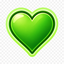
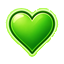
nerf BloodSword

diff --git a/BloodMazeCode/Powers/TemporaryDexterityPower.cs b/BloodMazeCode/Powers/TemporaryDexterityPower.cs
@@ -1,0 +1,44 @@
+using System.Collections.Generic;
+using System.Threading.Tasks;
+using MegaCrit.Sts2.Core.Combat;
+using MegaCrit.Sts2.Core.Commands;
+using MegaCrit.Sts2.Core.Entities.Creatures;
+using MegaCrit.Sts2.Core.Entities.Powers;
+using MegaCrit.Sts2.Core.GameActions.Multiplayer;
+using MegaCrit.Sts2.Core.Models;
+using MegaCrit.Sts2.Core.Models.Powers;
+
+namespace BloodMaze.BloodMazeCode.Powers;
+
+public class TemporaryDexterityPower : BloodMazePower
+{
+    public override PowerType Type => PowerType.Buff;
+    public override PowerStackType StackType => PowerStackType.Counter;
+
+    public override async Task AfterPowerAmountChanged(
+        PlayerChoiceContext choiceContext,
+        PowerModel power,
+        decimal amount,
+        Creature? applier,
+        CardModel? cardSource)
+    {
+        if (power != this) return;
+        if (amount <= 0) return;
+
+        await PowerCmd.Apply<DexterityPower>(choiceContext, this.Owner, amount, applier, cardSource);
+    }
+
+    public override async Task AfterSideTurnEnd(
+        PlayerChoiceContext choiceContext,
+        CombatSide side,
+        IEnumerable<Creature> creatures)
+    {
+        if (side != this.Owner.Side) return;
+        if (this.Owner.IsDead) return;
+        if (CombatManager.Instance.IsOverOrEnding) return;
+
+        decimal amount = this.Amount;
+        await PowerCmd.Remove<TemporaryDexterityPower>(this.Owner);
+        await PowerCmd.Apply<DexterityPower>(choiceContext, this.Owner, -amount, this.Owner, null);
+    }
+}

diff --git a/BloodMazeCode/Cards/Rare/ManaFort.cs b/BloodMazeCode/Cards/Rare/ManaFort.cs
@@ -1,41 +1,38 @@
-using System;
 using System.Collections.Generic;
 using System.Threading.Tasks;
-using BloodMaze.BloodMazeCode.Mp;
-using MegaCrit.Sts2.Core.Commands;
+using BaseLib.Utils;
+using BloodMaze.BloodMazeCode.Powers;
 using MegaCrit.Sts2.Core.Entities.Cards;
-using MegaCrit.Sts2.Core.Entities.Creatures;
 using MegaCrit.Sts2.Core.GameActions.Multiplayer;
 using MegaCrit.Sts2.Core.Localization.DynamicVars;
-using MegaCrit.Sts2.Core.Models;
 using MegaCrit.Sts2.Core.ValueProps;
 
 namespace BloodMaze.BloodMazeCode.Cards.Rare;
 
 
 
-public class ManaFort() : BloodMazeCard(3, CardType.Skill, CardRarity.Rare, TargetType.Self)
+public class ManaFort() : BloodMazeCard(0, CardType.Skill, CardRarity.Rare, TargetType.Self)
 {
     protected override IEnumerable<DynamicVar> CanonicalVars =>
     [
-        new HpLossVar(3m),
-        new CalculationBaseVar(0m),
-        new CalculationExtraVar(0m),
-        new CalculatedBlockVar(ValueProp.Move).WithMultiplier(
-            ((Func<CardModel, Creature, Decimal>)((card, _) =>
-                (Decimal)MpSaveData.CurrentMp)!)!)
+        new PowerVar<TemporaryDexterityPower>(0m),
+        new BlockVar(3m, ValueProp.Move)
     ];
+
+    protected override bool HasEnergyCostX => true;
 
     protected override async Task OnPlay(PlayerChoiceContext choiceContext, CardPlay play)
     {
-        await CreatureCmd.Damage(choiceContext, this.Owner.Creature, DynamicVars.HpLoss.IntValue,
-            ValueProp.Unblockable | ValueProp.Unpowered, null, this);
-        int block = MpSaveData.CurrentMp;
-        await CreatureCmd.GainBlock(this.Owner.Creature, block, ValueProp.Move, play);
+        int amount = ResolveEnergyXValue() + DynamicVars["TemporaryDexterityPower"].IntValue;
+        if (amount <= 0) return;
+
+        await CommonActions.ApplySelf<TemporaryDexterityPower>(choiceContext, this, amount);
+        for (int i = 0; i < amount; i++)
+            await CommonActions.CardBlock(this, play);
     }
 
     protected override void OnUpgrade()
     {
-        this.EnergyCost.SetCustomBaseCost(2);
+        DynamicVars["TemporaryDexterityPower"].UpgradeValueBy(1m);
     }
 }

diff --git a/BloodMazeCode/Cards/Rare/BloodSword.cs b/BloodMazeCode/Cards/Rare/BloodSword.cs
@@ -16,13 +16,13 @@ using MegaCrit.Sts2.Core.ValueProps;
 namespace BloodMaze.BloodMazeCode.Cards.Rare;
 
 
-public class BloodSword() : BloodMazeCard(9,
+public class BloodSword() : BloodMazeCard(10,
     CardType.Attack, CardRarity.Rare, TargetType.AnyEnemy)
 {
     
     private int _hpLossTriggers;
 
-    private int _baseCost = 9;
+    private int _baseCost = 10;
     
     protected override IEnumerable<DynamicVar> CanonicalVars => [new VampireVar()];
     
@@ -32,10 +32,10 @@ public class BloodSword() : BloodMazeCard(9,
         CardPlay play)
     {
         int damage = Owner.Creature.CurrentHp;
-        AttackCommand attack = await CommonActions.CardAttack(this, play.Target, damage).Execute(choiceContext);
+        AttackCommand attack = await CommonActions.CardAttack(this, play.Target, (decimal)damage, 1).Execute(choiceContext);
         decimal restore = attack.Results.SelectMany(r => r).Sum(r => r.TotalDamage + r.OverkillDamage - r.BlockedDamage);
         await CreatureCmd.Heal(this.Owner.Creature, restore);
-        _hpLossTriggers -= 2;
+        _hpLossTriggers -= 5;
     }
     
     private void RefreshCost()

diff --git a/BloodMazeCode/Cards/Uncommon/RockWall.cs b/BloodMazeCode/Cards/Uncommon/RockWall.cs
@@ -10,9 +10,9 @@ namespace BloodMaze.BloodMazeCode.Cards.Uncommon;
 
 
 public class RockWall() : MpConsumeCard(1,
-    CardType.Skill, CardRarity.Uncommon, TargetType.Self,2)
+    CardType.Skill, CardRarity.Uncommon, TargetType.Self,3)
 {
-    protected override IEnumerable<DynamicVar> CanonicalVars => [..base.CanonicalVars, new BlockVar(12m, ValueProp.Move)];
+    protected override IEnumerable<DynamicVar> CanonicalVars => [..base.CanonicalVars, new BlockVar(11m, ValueProp.Move)];
 
     protected override async Task OnPlay(
         PlayerChoiceContext choiceContext,
@@ -24,6 +24,6 @@ public class RockWall() : MpConsumeCard(1,
 
     protected override void OnUpgrade()
     {
-        DynamicVars.Block.UpgradeValueBy(4m);
+        DynamicVars.Block.UpgradeValueBy(3m);
     }
 }